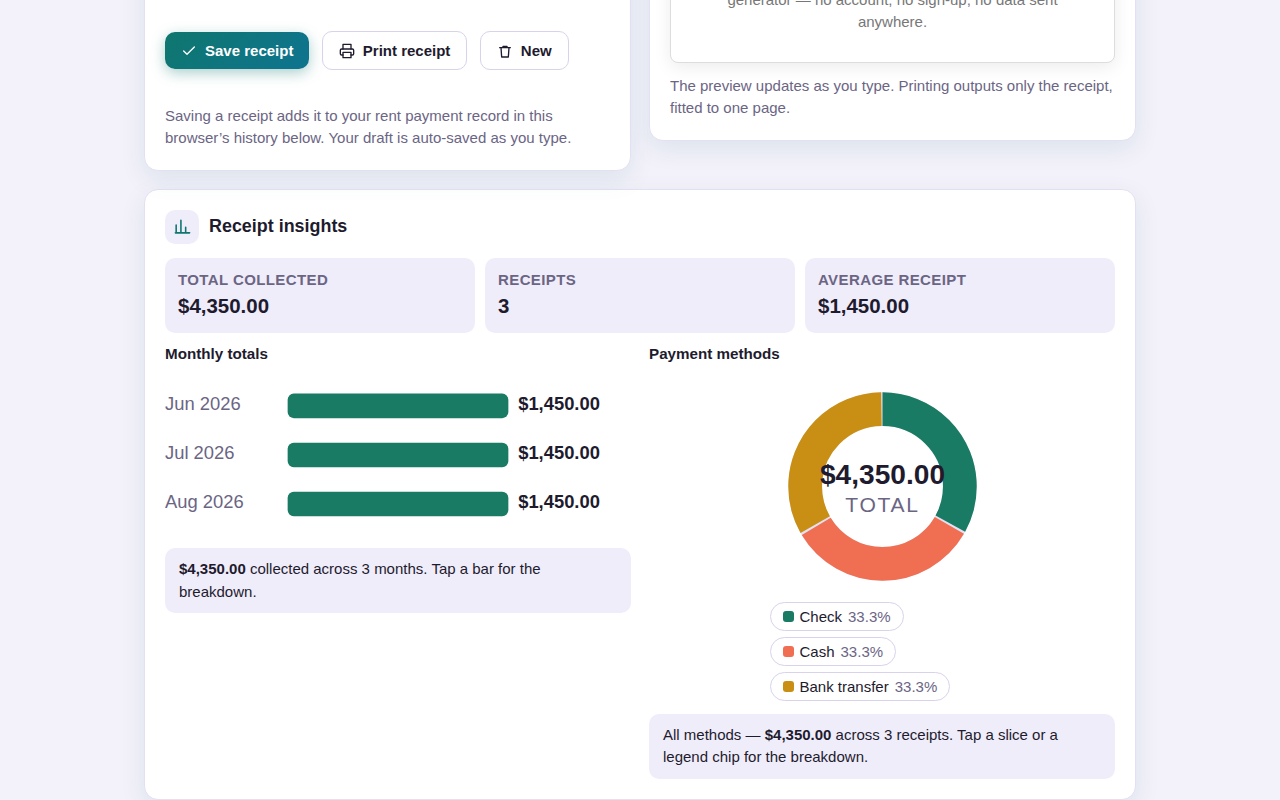
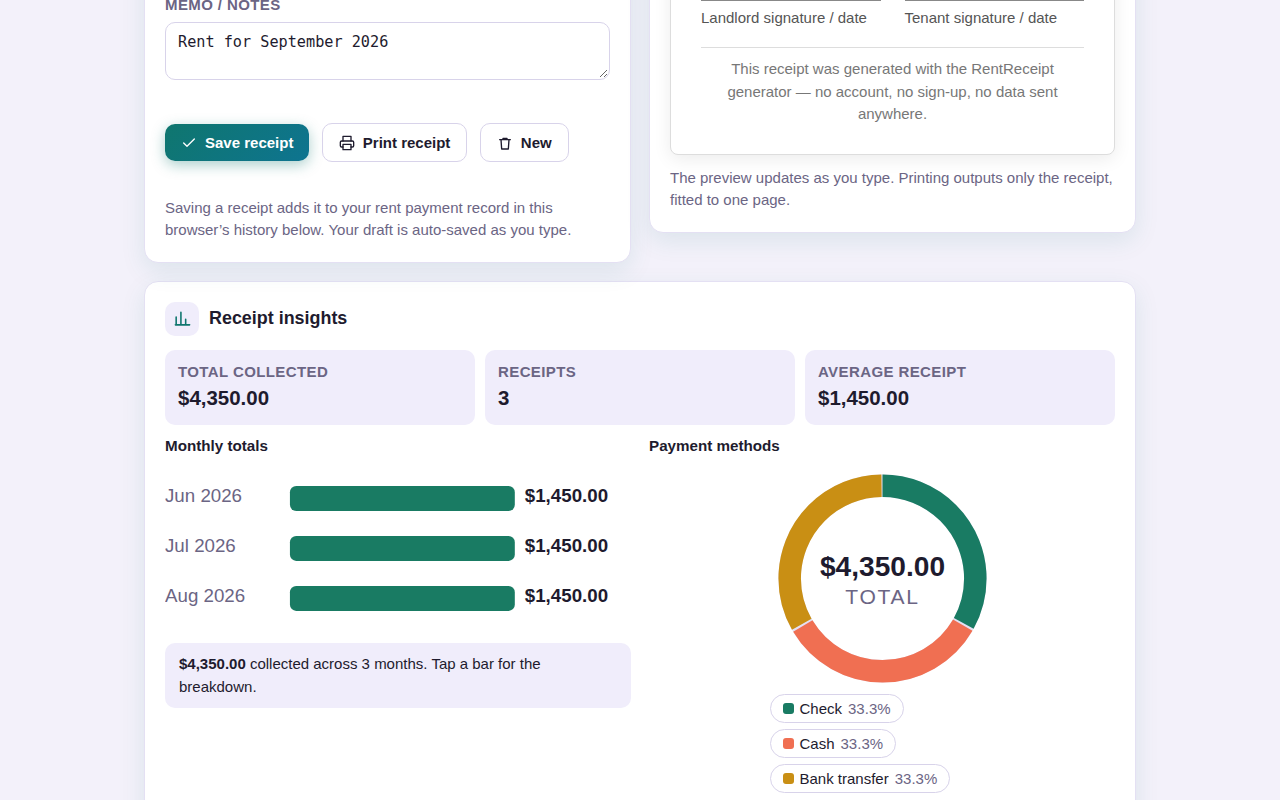
RentReceipt chart geometry fix (donut clear zone, bar label clipping)

diff --git a/staging/rentreceipt/index.html b/staging/rentreceipt/index.html
@@ -628,22 +628,26 @@ function methodAgg(){
   });
   return Object.keys(map).map(function(k){return{method:k,total:map[k].total,count:map[k].count};});
 }
-/* gallery-style donut: dashed-circle segments, center readout */
+/* gallery-style donut: dashed-circle segments, center readout.
+   Center text lives in a dedicated clear zone: hole diameter (116) minus
+   >=12 padding -> 104-unit box. Top text scales 20px -> 15px floor by length
+   so 7-digit totals ($X,XXX,XXX.XX) fit without touching the ring. */
 function donutSVG(uidp,segs,total,topText,subText){
-  var C=345.6,acc=0,i;
+  var C=414.7,acc=0,i,R=66,SW=16;
   var g="";
   for(i=0;i<segs.length;i++){
     var frac=total>0?segs[i].value/total:0;
     var len=segs.length>1?Math.max(frac*C-1.4,0.6):C;
     g+='<g class="seg" tabindex="0" role="button" data-i="'+i+'" aria-pressed="false" aria-label="'+esc(segs[i].label+": "+segs[i].hint)+'">'
-      +'<circle cx="80" cy="80" r="55" fill="none" stroke="'+segs[i].color+'" stroke-width="24"'
+      +'<circle cx="80" cy="80" r="'+R+'" fill="none" stroke="'+segs[i].color+'" stroke-width="'+SW+'"'
       +' stroke-dasharray="'+len.toFixed(1)+" "+C.toFixed(1)+'" stroke-dashoffset="'+(-acc).toFixed(1)+'"/></g>';
     acc+=frac*C;
   }
+  var topSize=Math.max(15,Math.min(20,Math.floor(104/(String(topText).length*0.55))));
   return '<svg viewBox="0 0 160 160" role="img" aria-label="Payment method breakdown donut chart">'
-    +'<circle cx="80" cy="80" r="55" fill="none" stroke="var(--border)" stroke-width="24"/>'
+    +'<circle cx="80" cy="80" r="'+R+'" fill="none" stroke="var(--border)" stroke-width="'+SW+'"/>'
     +'<g fill="none" transform="rotate(-90 80 80)">'+g+'</g>'
-    +'<text x="80" y="78" text-anchor="middle" pointer-events="none" style="font-size:20px;font-weight:700;fill:var(--text)" id="'+uidp+'-top">'+esc(topText)+'</text>'
+    +'<text x="80" y="78" text-anchor="middle" pointer-events="none" style="font-size:'+topSize+'px;font-weight:700;fill:var(--text)" id="'+uidp+'-top">'+esc(topText)+'</text>'
     +'<text x="80" y="98" text-anchor="middle" pointer-events="none" style="font-size:15px;letter-spacing:1.2px;fill:var(--muted)" id="'+uidp+'-sub">'+esc(subText)+'</text></svg>';
 }
 function legendHTML(segs){
@@ -654,11 +658,14 @@ function legendHTML(segs){
   }).join("")+'</div>';
 }
 function barsSVG(months){
-  var W=380,padL=100,rowH=40,top=8;
+  var padL=100,rowH=40,top=8,maxBW=180;
   var max=Math.max.apply(null,months.map(function(m){return m.total;}).concat([0]));
+  /* reserve room for the longest value label so it never clips the viewBox edge */
+  var maxLabelLen=Math.max.apply(null,months.map(function(m){return fmtMoney(m.total).length;}).concat([0]));
+  var W=Math.ceil(padL+maxBW+8+maxLabelLen*8.5+8);
   var H=top+months.length*rowH+6,s="";
   months.forEach(function(m,i){
-    var y=top+i*rowH,bw=max>0?Math.max(Math.round(m.total/max*180),3):0;
+    var y=top+i*rowH,bw=max>0?Math.max(Math.round(m.total/max*maxBW),3):0;
     s+='<g class="ch-bar" tabindex="0" role="button" data-i="'+i+'" aria-pressed="false"'
       +' aria-label="'+esc(m.label+": "+fmtMoney(m.total)+", "+m.count+" receipts")+'">'
       +'<text x="0" y="'+(y+21)+'" style="font-size:15px;fill:var(--muted)">'+esc(m.label)+'</text>'
